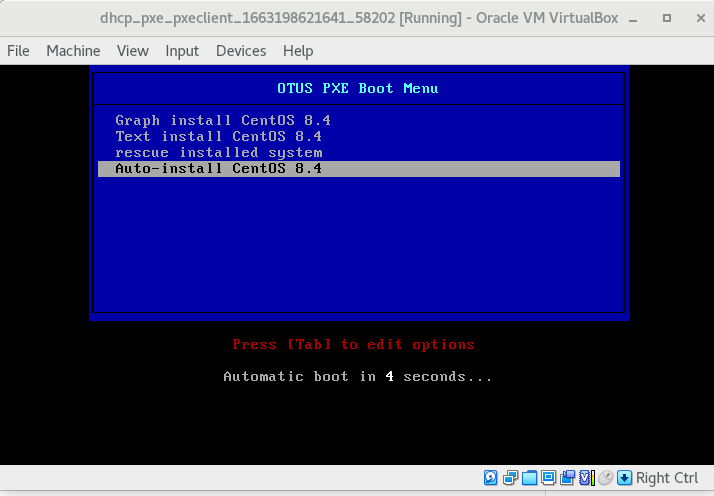
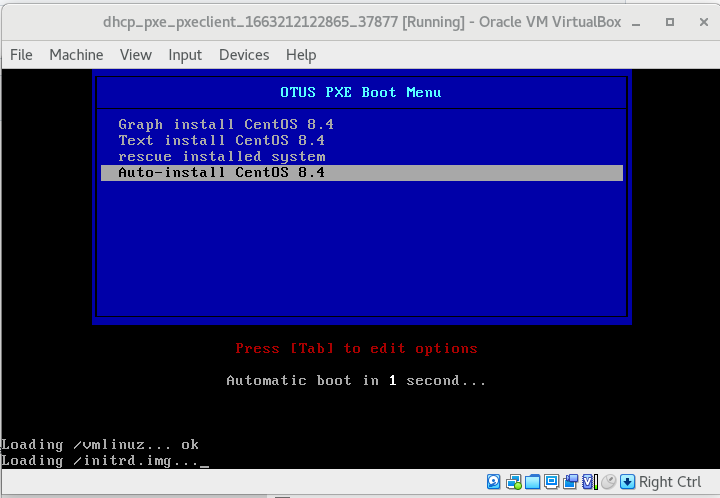
Modify and add few files

diff --git a/README.md b/README.md
@@ -830,4 +830,7 @@ end</pre>
 <p>После внесения данных изменений, можем перезапускаем нашу ВМ pxeclient и проверить, что запустится процесс автоматической установки ОС:</p>
 
 <img src="./screens/Screenshot-08.png" alt="Screenshot-08.png" />
-
+<img src="./screens/Screenshot-09.png" alt="Screenshot-09.png" />
+<img src="./screens/Screenshot-10.png" alt="Screenshot-10.png" />
+<img src="./screens/Screenshot-11.png" alt="Screenshot-11.png" />
+<img src="./screens/Screenshot-12.png" alt="Screenshot-12.png" />
